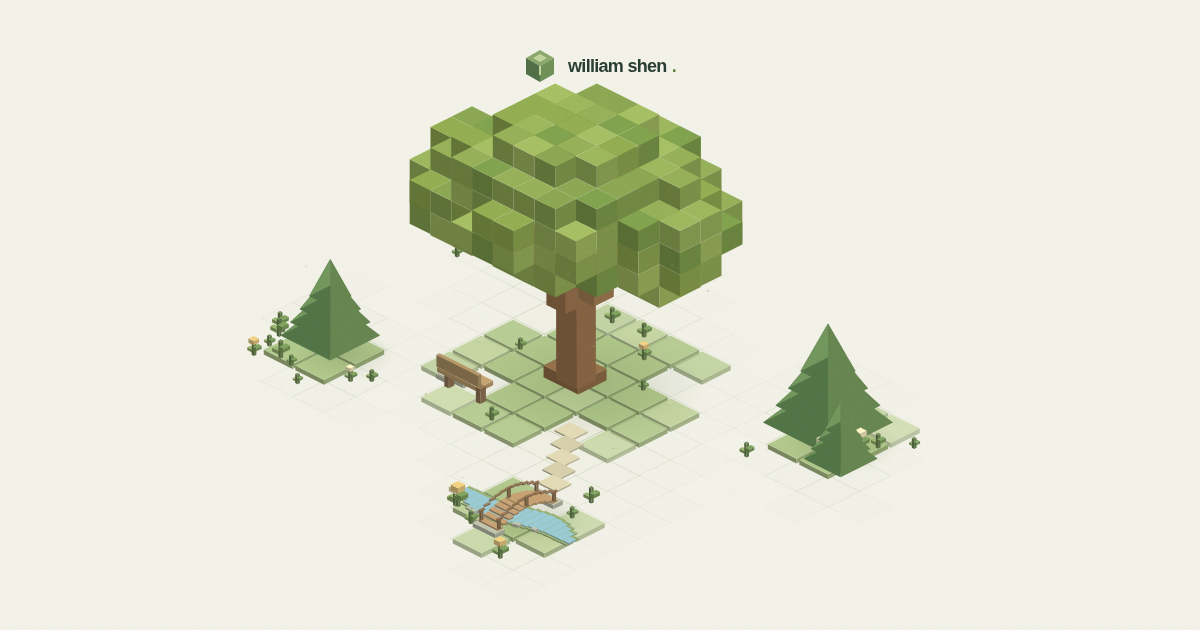
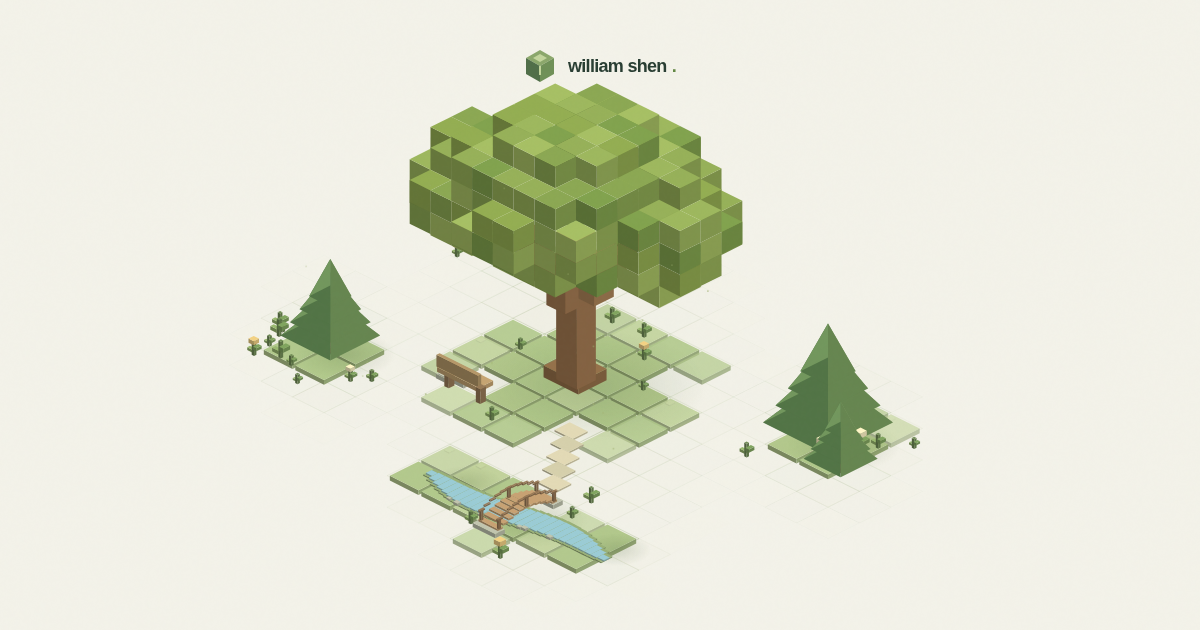
lengthen the creek by about a tile at each end, on grass that widens under it
AI-Model: geotab-anthropic/claude-opus-5.5

Changed region(s): [[0.3083, 0.6937, 0.4317, 0.8143], [0.4317, 0.8143, 0.5242, 0.9048]]

diff --git a/src/garden/objects.test.ts b/src/garden/objects.test.ts
@@ -2,7 +2,7 @@ import assert from 'node:assert/strict'
 import { test } from 'node:test'
 import { garden } from '../data/garden.ts'
 import { buildWorld, objectTypes } from './objects.ts'
-import type { GardenConfig, GardenObject, Geometry } from './types.ts'
+import type { GardenConfig, GardenObject, Geometry, Island } from './types.ts'
 
 const minimal = (objects: GardenObject[], islands = [{ id: 'a', x: 0, y: 0, radius: 2 }]): GardenConfig => ({
   ground: { extent: 3, seed: 1 },
@@ -172,4 +172,18 @@ test('scattered plants stay out of other objects without moving the plants that 
   const withCreek = plants([scatter, { id: 'creek', type: 'creek', island: 'a', length: 4, width: 1 }])
   assert.ok(withCreek.length < alone.length, 'some plants were kept out of the water')
   assert.ok(withCreek.every((box) => alone.includes(box)), 'every remaining plant is exactly where it was')
+})
+
+test('islands with plants: false widen the grass but get no scattered plants', () => {
+  const scatter: GardenObject = { id: 'plants', type: 'scatter', count: 40, flowerEvery: 3, clearRadius: 0 }
+  const islands: Island[] = [{ id: 'a', x: 0, y: 0, radius: 2 }, { id: 'b', x: 6, y: 0, radius: 2 }]
+  const world = (extra: Island[]) =>
+    buildWorld({ ...minimal([scatter], [...islands, ...extra]), ground: { extent: 10, seed: 1 } })
+  const plain = world([]), widened = world([{ id: 'bare', x: 3, y: 0, radius: 2, plants: false }])
+  // The scatter is unchanged, wherever the bare island sits in the list...
+  assert.deepEqual(canonical(widened.geometry), canonical(plain.geometry))
+  assert.deepEqual(canonical(buildWorld({ ...minimal([scatter], [islands[0], { id: 'bare', x: 3, y: 0, radius: 2, plants: false }, islands[1]]), ground: { extent: 10, seed: 1 } }).geometry), canonical(plain.geometry))
+  // ...but the ground between the islands turns to grass.
+  const grass = (tiles: { x: number; y: number; grass: boolean }[]) => tiles.filter((tile) => tile.grass && tile.x >= 2 && tile.x <= 3 && Math.abs(tile.y) <= 1).length
+  assert.ok(grass(widened.tiles) > grass(plain.tiles))
 })

diff --git a/src/data/garden.ts b/src/data/garden.ts
@@ -21,6 +21,9 @@ export const garden: GardenConfig = {
     { id: 'right', x: 5.9, y: -2.1, radius: 2.5 },
     { id: 'left', x: -4.9, y: 2.9, radius: 2.2 },
     { id: 'front', x: 3.35, y: 5.2, radius: 2.4 },
+    // Grass under the creek's ends, so the water doesn't run out over bare grid.
+    { id: 'creek-left', x: 1.1, y: 5.1, radius: 1.6, plants: false },
+    { id: 'creek-right', x: 5.6, y: 4.8, radius: 1.5, plants: false },
     { id: 'back', x: -5.2, y: -3.5, radius: 1.6 },
   ],
   objects: [
@@ -38,7 +41,7 @@ export const garden: GardenConfig = {
     { id: 'path', type: 'path', island: 'main', x: 1.3, y: 1.5, stones: 5, step: { x: 0.35, y: 0.48 } },
     { id: 'bench', type: 'bench', island: 'main', x: -2, y: 1.95 },
     // A little creek across the front island, with the path's footbridge over it.
-    { id: 'creek', type: 'creek', island: 'front', length: 3.4, width: 0.75, link: 'hobbies' },
+    { id: 'creek', type: 'creek', island: 'front', length: 5.6, width: 0.75, link: 'hobbies' },
     { id: 'bridge', type: 'bridge', island: 'front', rotate: 90, length: 1.9, link: 'hobbies' },
   ],
   fireflies: { count: 18, seed: 664517015, area: { x: -6.5, y: -4, z: 0.4, width: 13, depth: 10, height: 4 } },

diff --git a/tests/garden-dev.spec.ts b/tests/garden-dev.spec.ts
@@ -99,6 +99,7 @@ test.describe('?garden=edit', () => {
   })
 
   test('islands can be selected and resized; edits that break the config are refused', async ({ page }) => {
+    const count = (await config(page)).islands.length
     // Open grass on the right island, clear of its pines and rock.
     const island = await at(page, 7.8, -2.1)
     await page.mouse.click(island.x, island.y)
@@ -107,7 +108,7 @@ test.describe('?garden=edit', () => {
     // An island with objects on it can't be deleted.
     await page.keyboard.press('Delete')
     await expect(page.getByRole('status')).toContainText('still has objects on it')
-    expect((await config(page)).islands).toHaveLength(5)
+    expect((await config(page)).islands).toHaveLength(count)
   })
 
   test('add, duplicate, and copy the config as TypeScript', async ({ page }) => {

diff --git a/src/garden/types.ts b/src/garden/types.ts
@@ -82,7 +82,11 @@ export type Bloom = { seed: number; period: number; phase: number; scale: number
 type Area = { x: number; y: number; z: number; width: number; depth: number; height: number }
 
 /** A patch of grass. Islands shape the ground, cast a soft shadow, and anchor objects. */
-export type Island = Point & { id: string; radius: number }
+export type Island = Point & {
+  id: string; radius: number
+  /** `false` keeps scatters from planting here, e.g. a patch that only widens the grass under a creek. */
+  plants?: boolean
+}
 
 /** Parameters for each object type, keyed by `type`. Add a type here and in `objectTypes`. */
 export type ObjectParams = {

diff --git a/src/garden/objects.ts b/src/garden/objects.ts
@@ -170,8 +170,9 @@ export const objectTypes: { [K in ObjectType]: ObjectBuilder<K> } = {
   },
 
   scatter(b, { count, flowerEvery, clearRadius, keepOut = 0.12 }) {
+    const islands = b.islands.filter((island) => island.plants !== false)
     for (let i = 0; i < count; i++) {
-      const island = b.islands[Math.floor(b.random() * b.islands.length)]
+      const island = islands[Math.floor(b.random() * islands.length)]
       const angle = b.random() * Math.PI * 2, radius = 0.8 + b.random() * island.radius * 0.48
       const x = island.x + Math.cos(angle) * radius, y = island.y + Math.sin(angle) * radius
       if (Math.hypot(x, y) < clearRadius) continue

diff --git a/README.md b/README.md
@@ -125,7 +125,7 @@ vite.config.ts                     Vite + React, 404 build entry, local 404 hand
 - **Contact links:** edit `src/data/contact.ts`. The navbar's **Say hello** and the introduction's **Or just say hello** open the same dialog.
 - **Field notes dialog copy:** edit `src/data/portfolio.ts`. Writing has not been ported yet, so this is still placeholder copy.
 - **Colors and dimensions:** edit the CSS custom properties in `src/index.css`; component-specific layout lives alongside each component.
-- **Garden layout:** edit `garden` in `src/data/garden.ts`. It lists the islands (grass patches that shape the ground and cast shadows), the objects, the ground size, and the fireflies. Object types: `oak`, `pine`, `plant`, `rock`, `path` (stepping stones), `bench`, `creek` (a tapering stream along local x with pebbles on its banks), `bridge` (an arched footbridge along local x, on stone footings), and `scatter`, which sprinkles plants around every island. Scatters are built after everything else and skip plants that would land within `keepOut` of another object's footprint (water, rocks, footings), without moving the plants that remain. Units are ground tiles; +x runs toward the lower right of the screen and +y toward the lower left. An object with `island` is positioned relative to that island's center, so moving an island moves everything on it. Any object can be turned with `rotate: 90 | 180 | 270` (quarter turns clockwise on screen, so boxes stay axis-aligned) and flipped left↔right with `mirror: true`; mirroring applies before rotating. Each object has its own seeded random generator: change its `seed` to reroll just that object, or leave `seed` out to derive one from its `id`. The current seeds reproduce the original garden. To make objects clickable, add a destination to `links` (`{ label, href }`; its position in `links` is its tab order) and give the objects `link: '<id>'`; several objects can share one, and they highlight together. An unknown link id fails the build.
+- **Garden layout:** edit `garden` in `src/data/garden.ts`. It lists the islands (grass patches that shape the ground and cast shadows; grass covers about the inner 60% of an island's radius, and `plants: false` keeps scatters off an island that only widens the grass, like the two under the creek's ends), the objects, the ground size, and the fireflies. Object types: `oak`, `pine`, `plant`, `rock`, `path` (stepping stones), `bench`, `creek` (a tapering stream along local x with pebbles on its banks), `bridge` (an arched footbridge along local x, on stone footings), and `scatter`, which sprinkles plants around every island. Scatters are built after everything else and skip plants that would land within `keepOut` of another object's footprint (water, rocks, footings), without moving the plants that remain. Units are ground tiles; +x runs toward the lower right of the screen and +y toward the lower left. An object with `island` is positioned relative to that island's center, so moving an island moves everything on it. Any object can be turned with `rotate: 90 | 180 | 270` (quarter turns clockwise on screen, so boxes stay axis-aligned) and flipped left↔right with `mirror: true`; mirroring applies before rotating. Each object has its own seeded random generator: change its `seed` to reroll just that object, or leave `seed` out to derive one from its `id`. The current seeds reproduce the original garden. To make objects clickable, add a destination to `links` (`{ label, href }`; its position in `links` is its tab order) and give the objects `link: '<id>'`; several objects can share one, and they highlight together. An unknown link id fails the build.
 - **Garden colors and seasons:** edit `gardenPalettes` in `src/data/garden.ts`. Objects refer to named colors (`trunk`, `benchSeat`…) and swatches (`leaves`, `flowers`, `pine`, `path`), resolved against the active palette when drawing; `light` scales the brightness of everything, and `snow` frosts top faces (and pines) toward a color. The garden follows the season: spring (March–May), summer (June–August, the original palettes `daylight`/`evening`), autumn (September–November), and winter (December–February), each with a daylight and an evening palette chosen in `gardenSeasons`. Evening palettes are made from the daylight ones by `atEvening`, which dims the light and lights the fireflies. Each palette's `live` picks what moves over the garden: summer's fireflies, autumn leaves tumbling down from every oak (`leaves` in the layout), winter snowfall (`snow`), or spring flowers that sprout, bloom, and fade on open grass (`blooms`; they only grow where nothing in front would hide them). These are drawn live each frame on top of the cached scene and freeze with reduced motion. Preview any season with `?season=spring|summer|autumn|winter` (this works on the live site too).
 - **New object types:** add the parameters to `ObjectParams` in `src/garden/types.ts` and a builder to `objectTypes` in `src/garden/objects.ts`. Builders draw boxes and pine tiers in local coordinates with `b.box(...)` / `b.pineLayer(...)`, use `b.random()` for variation, and can place other types with `b.place(...)`, and can ask `b.occupied(x, y, margin)` whether another object already sits on the ground there. When hiding faces covered by a neighbor, look neighbors up through `b.facing.right` / `b.facing.left` (the local directions that face the camera) so culling stays correct after rotating or mirroring. `buildWorld` (pure, unit-tested in `src/garden/objects.test.ts`) turns the config into sorted geometry; `src/garden/scene.ts` only renders it, caching everything but the fireflies and pointer light.
 - **Scroll choreography:** edit `src/hooks/useGardenExperience.ts` and `GardenExperience.module.css`. Frame-by-frame updates go straight to CSS variables and canvas rather than triggering React renders.
